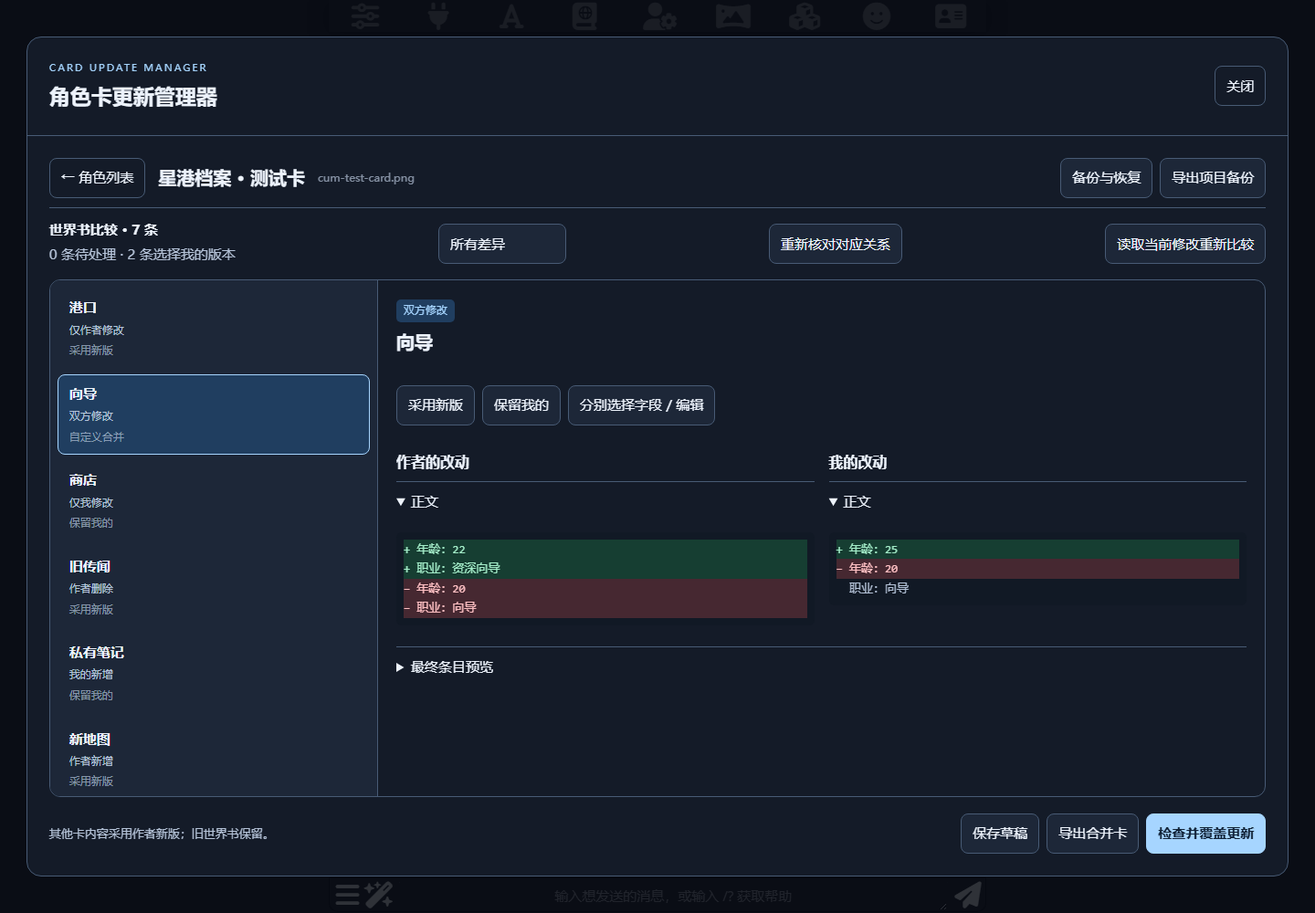
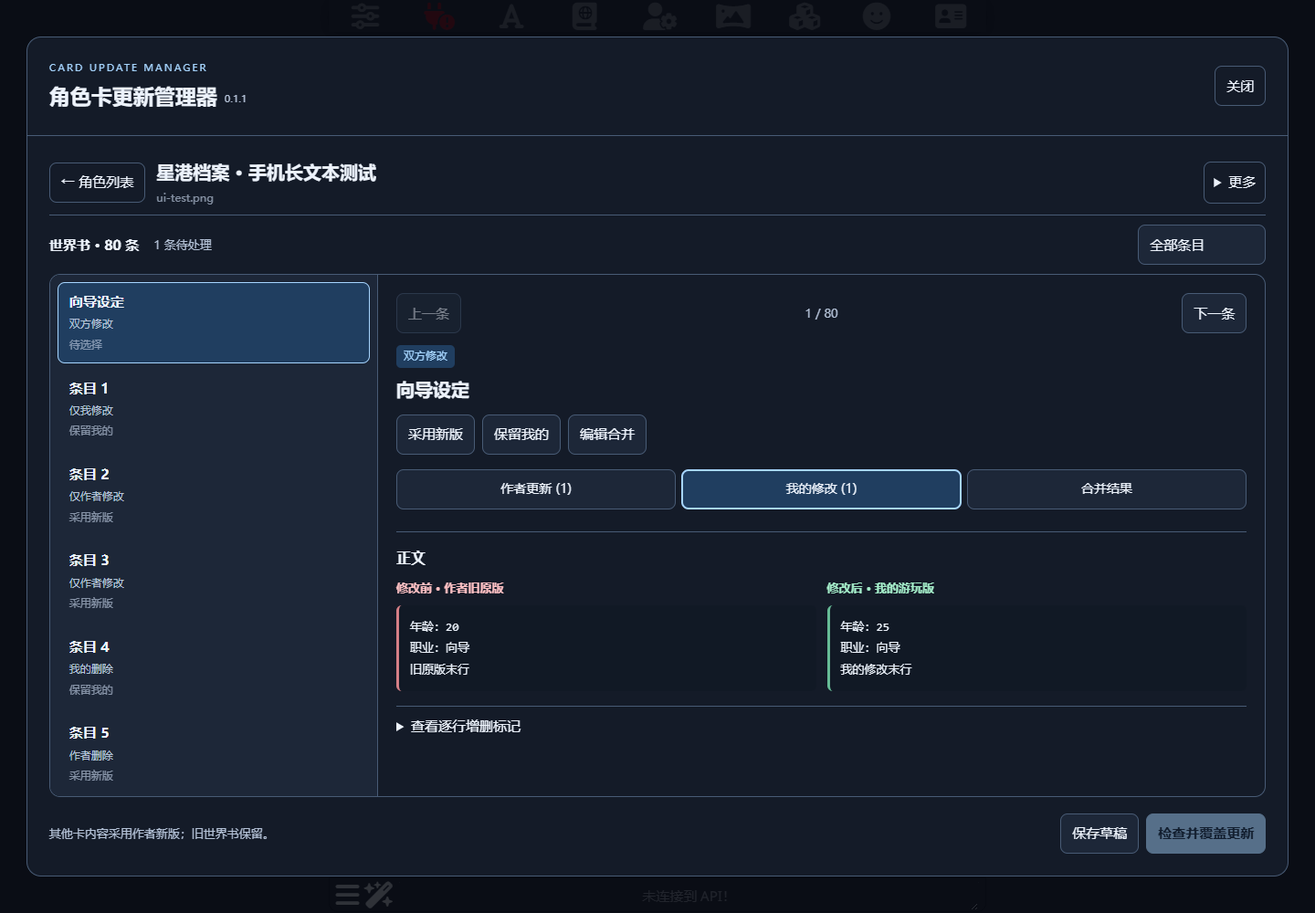
Fix mobile navigation and make worldbook changes directly readable

diff --git a/ui.js b/ui.js
@@ -48,7 +48,7 @@ export class Manager {
         this.message=el('div',{class:'cum-message',role:'status','aria-live':'polite'});
         this.content=el('main',{class:'cum-content'});
         this.shell=el('div',{class:'cum-shell'},
-            el('header',{class:'cum-header'},el('div',{},el('span',{class:'cum-eyebrow'},'CARD UPDATE MANAGER'),el('h2',{id:'cum-title'},'角色卡更新管理器')),
+            el('header',{class:'cum-header'},el('div',{},el('span',{class:'cum-eyebrow'},'CARD UPDATE MANAGER'),el('h2',{id:'cum-title'},'角色卡更新管理器',el('span',{class:'cum-version'},'0.1.1'))),
                 button('关闭',()=>{if(!this.busy)this.dialog.close();},{class:'cum-quiet'})),this.message,this.content);
         this.dialog.append(this.shell);document.body.append(this.dialog);this.dialog.showModal();
         await this.run(()=>this.home());
@@ -95,7 +95,11 @@ export class Manager {
         this.state={card,record,snapshot:null,next:null,rows:null,filter:'changed',selected:0};
         this.renderSetup();
     }
-    nav(){return el('div',{class:'cum-heading'},el('div',{},button('← 角色列表',()=>this.run(()=>this.home()),{class:'cum-quiet'}),el('h3',{},this.state.card.name),el('small',{},this.state.card.avatar)),el('div',{class:'cum-actions'},button('备份与恢复',()=>this.run(()=>this.backupPage())),button('导出项目备份',()=>this.run(()=>this.exportProject()))));}
+    nav(){
+        const actions=el('div',{class:'cum-more-actions'},button('备份与恢复',()=>this.run(()=>this.backupPage())),button('导出项目备份',()=>this.run(()=>this.exportProject())));
+        if(this.state.rows)actions.append(button('导出合并卡',()=>this.run(()=>this.exportMerged()),{disabled:this.state.rows.some(r=>!r.choice)}),button('重新核对对应关系',()=>this.renderMapping()),button('读取当前修改重新比较',()=>this.run(async()=>{if(!await this.confirm('重新读取会清除当前条目选择，是否继续？','重新比较'))return;this.state.snapshot=await this.host.snapshot(this.state.card.avatar);this.prepareMaps();this.renderMapping();})));
+        return el('div',{class:'cum-heading cum-nav'},el('div',{class:'cum-nav-title'},button('← 角色列表',()=>this.run(()=>this.home()),{class:'cum-quiet'}),el('div',{class:'cum-character-name'},el('h3',{},this.state.card.name),el('small',{},this.state.card.avatar))),el('details',{class:'cum-more'},el('summary',{},'更多'),actions));
+    }
     renderSetup(){
         this.content.classList.remove('cum-merge-page');
         const s=this.state;
@@ -139,13 +143,13 @@ export class Manager {
                 if(initial>=0)select.append(el('option',{value:String(initial)},`${title(target[initial])} · #${target[initial].uid}`));
                 // Populate on focus, avoiding O(n²) option nodes for large worldbooks.
                 select.addEventListener('focus',()=>{const value=select.value;select.replaceChildren(el('option',{value:'-1'},'不存在 / 已删除'));target.forEach((e,index)=>select.append(el('option',{value:String(index)},`${title(e)} · #${e.uid}`)));select.value=value;},{once:true});
-                select.value=String(s.maps[side][i]);select.addEventListener('change',()=>s.maps[side][i]=Number(select.value));return select;
+                select.value=String(s.maps[side][i]);select.addEventListener('change',()=>s.maps[side][i]=Number(select.value));return el('label',{class:'cum-map-label'},el('span',{},side==='mine'?'对应我的条目':'对应作者新版条目'),select);
             });
             table.append(el('div',{class:'cum-map-row'},el('span',{},title(base)),...selectors));
         });
         const check=el('input',{type:'checkbox'});
         const go=button('确认对应关系，查看差异',()=>this.run(async()=>{
-            s.rows=buildRows(s.base,s.mine,s.nextEntries,s.maps);s.selected=0;s.filter='changed';await this.saveDraft();this.renderMerge();
+            s.rows=buildRows(s.base,s.mine,s.nextEntries,s.maps);s.selected=0;s.filter='changed';s.mobilePane='list';s.detailSource=null;await this.saveDraft();this.renderMerge();
         }),{class:'cum-primary',disabled:true});
         check.addEventListener('change',()=>go.disabled=!check.checked);
         this.content.replaceChildren(this.nav(),el('h3',{},'核对条目对应关系'),el('p',{},`按唯一名称、正文和关键词预匹配。旧条目在当前版未匹配 ${unmatchedM} 条，在新版未匹配 ${unmatchedN} 条。改名或重建的条目请手动对应；确认不存在的保留“已删除”。未被对应的新条目将作为新增处理。`),table,
@@ -158,7 +162,7 @@ export class Manager {
     }
     async resumeDraft(){
         const s=this.state,d=s.record.draft;
-        Object.assign(s,{snapshot:d.snapshot,next:d.next});this.prepareMaps();s.maps=d.maps;s.rows=d.rows;s.filter='changed';s.selected=0;
+        Object.assign(s,{snapshot:d.snapshot,next:d.next});this.prepareMaps();s.maps=d.maps;s.rows=d.rows;s.filter='changed';s.selected=0;s.mobilePane='list';s.detailSource=null;
         this.renderMerge();this.say('草稿已恢复。应用前会检查当前卡和世界书是否发生变化。');
     }
     renderMerge(){
@@ -166,45 +170,69 @@ export class Manager {
         const s=this.state, pending=s.rows.filter(r=>!r.choice).length;
         const filter=el('select',{'aria-label':'筛选条目'},el('option',{value:'changed'},'所有差异'),el('option',{value:'pending'},`待处理（${pending}）`),el('option',{value:'all'},'全部条目'));
         for(const [key,label]of Object.entries(LABELS)){const count=s.rows.filter(r=>r.type===key).length;if(count)filter.append(el('option',{value:key},`${label}（${count}）`));}
-        filter.value=s.filter;filter.addEventListener('change',()=>{s.filter=filter.value;this.renderMerge();});
-        this.list=el('aside',{class:'cum-entry-list','aria-label':'世界书条目'});this.detail=el('section',{class:'cum-detail','aria-label':'条目差异详情'});
-        this.content.replaceChildren(this.nav(),el('div',{class:'cum-toolbar'},el('div',{},el('strong',{},`世界书比较 · ${s.rows.length} 条`),el('p',{},`${pending} 条待处理 · ${s.rows.filter(r=>r.choice==='mine').length} 条选择我的版本`)),filter,
-            button('重新核对对应关系',()=>this.renderMapping()),button('读取当前修改重新比较',()=>this.run(async()=>{if(!await this.confirm('重新读取会清除当前条目选择，是否继续？','重新比较'))return;s.snapshot=await this.host.snapshot(s.card.avatar);this.prepareMaps();this.renderMapping();}))),
+        filter.value=s.filter;filter.addEventListener('change',()=>{s.filter=filter.value;s.detailSource=null;this.renderMerge();});
+        this.list=el('aside',{class:'cum-entry-list','aria-label':'世界书条目'});this.detail=el('section',{class:'cum-detail','aria-label':'条目差异详情',tabindex:'-1'});
+        this.mobileTabs=el('div',{class:'cum-mobile-tabs','aria-label':'比较面板'},button('条目列表',()=>this.setMobilePane('list'),{'data-pane':'list'}),button('差异详情',()=>this.setMobilePane('detail'),{'data-pane':'detail'}));
+        this.content.replaceChildren(this.nav(),this.mobileTabs,el('div',{class:'cum-toolbar'},el('div',{class:'cum-merge-summary'},el('strong',{},`世界书 · ${s.rows.length} 条`),el('span',{},`${pending} 条待处理`)),filter),
             el('div',{class:'cum-workspace'},this.list,this.detail),
-            el('footer',{class:'cum-footer'},el('span',{},'其他卡内容采用作者新版；旧世界书保留。'),el('div',{class:'cum-actions'},button('保存草稿',()=>this.run(async()=>{await this.saveDraft();this.say('草稿已保存。');})),button('导出合并卡',()=>this.run(()=>this.exportMerged()),{disabled:!!pending}),button('检查并覆盖更新',()=>this.run(()=>this.apply()),{class:'cum-primary',disabled:!!pending}))));
-        this.drawList();
+            el('footer',{class:'cum-footer'},el('span',{},'其他卡内容采用作者新版；旧世界书保留。'),el('div',{class:'cum-actions'},button('保存草稿',()=>this.run(async()=>{await this.saveDraft();this.say('草稿已保存。');})),button('检查并覆盖更新',()=>this.run(()=>this.apply()),{class:'cum-primary',disabled:!!pending}))));
+        this.drawList();this.setMobilePane(s.mobilePane??'list');
+    }
+    setMobilePane(pane){
+        this.state.mobilePane=pane;this.content.dataset.mobilePane=pane;
+        for(const b of this.mobileTabs?.querySelectorAll('button')??[])b.setAttribute('aria-pressed',String(b.dataset.pane===pane));
+    }
+    selectEntry(index){
+        this.state.selected=index;this.state.detailSource=null;this.drawList();this.setMobilePane('detail');this.detail.scrollTop=0;
+        if(matchMedia('(max-width: 760px), (max-height: 500px) and (max-width: 1000px)').matches)this.detail.focus({preventScroll:true});
     }
     drawList(){
         const s=this.state;this.list.replaceChildren();
         const visible=s.rows.map((r,i)=>({r,i})).filter(({r})=>s.filter==='all'||s.filter==='changed'&&!['unchanged','bothDeleted'].includes(r.type)||s.filter==='pending'&&!r.choice||r.type===s.filter);
         if(!visible.some(({i})=>i===s.selected))s.selected=visible[0]?.i??-1;
-        for(const {r,i}of visible){const b=button('',()=>{s.selected=i;this.drawList();},{class:'cum-entry'+(s.selected===i?' is-selected':''),'aria-pressed':String(s.selected===i)});b.append(el('strong',{},r.title),el('span',{},LABELS[r.type]),el('small',{},!r.choice?'待选择':r.choice==='mine'?'保留我的':r.choice==='next'?'采用新版':r.choice==='delete'?'删除':'自定义合并'));this.list.append(b);}
+        this.visibleRows=visible.map(x=>x.i);
+        for(const {r,i}of visible){const b=button('',()=>this.selectEntry(i),{class:'cum-entry'+(s.selected===i?' is-selected':''),'aria-pressed':String(s.selected===i)});b.append(el('strong',{},r.title),el('span',{},LABELS[r.type]),el('small',{},!r.choice?'待选择':r.choice==='mine'?'保留我的':r.choice==='next'?'采用新版':r.choice==='delete'?'删除':'自定义合并'));this.list.append(b);}
         if(!visible.length)this.list.append(el('p',{class:'cum-empty'},'此分类没有条目。'));
         this.drawDetail();
     }
     diffPanel(label,base,value){
-        const panel=el('section',{class:'cum-diff-panel'},el('h4',{},label));
-        if(!value){panel.append(el('p',{},'该版本中不存在此条目。'));return panel;}
+        const panel=el('section',{class:'cum-diff-panel','aria-label':label});
+        if(!value){panel.append(el('p',{},base?'此版本删除了该条目。下面是删除前的正文。':'此版本中没有该条目。'));if(base)panel.append(el('div',{class:'cum-before'},el('strong',{},'删除前 · 旧原版正文'),el('pre',{},pretty(base.content))));return panel;}
         const fields=changedFields(base,value);
-        if(!fields.length)panel.append(el('p',{},'相对于作者旧原版没有变化。'));
+        if(!fields.length)panel.append(el('p',{},'相对于作者旧原版没有变化。'),el('strong',{},'正文'),el('pre',{},value.content??'（空正文）'));
         for(const field of fields){
-            const details=el('details',{...(field==='content'?{open:''}:{})},el('summary',{},FIELD_NAMES[field]??field));
-            const diff=el('pre',{class:'cum-diff'});
-            for(const line of lineDiff(base?.[field]===undefined?'':pretty(base[field]),pretty(value[field])))diff.append(el('span',{class:'cum-line '+line.kind},(line.kind==='add'?'+ ':line.kind==='remove'?'− ':'  ')+line.text+'\n'));
-            details.append(diff);panel.append(details);
+            const before=base?.[field],after=value[field];
+            const display=v=>field==='disable'?(v===undefined?'（不存在）':v?'禁用':'启用'):pretty(v);
+            const section=el('section',{class:'cum-field-change','data-field':field},el('h4',{},FIELD_NAMES[field]??field),
+                el('div',{class:'cum-before-after'},el('div',{class:'cum-before'},el('strong',{},'修改前 · 作者旧原版'),el('pre',{},display(before))),el('div',{class:'cum-after'},el('strong',{},'修改后 · '+(label==='作者更新'?'作者新版':'我的游玩版')),el('pre',{},display(after)))));
+            if(field==='content'){
+                const details=el('details',{class:'cum-inline-diff'},el('summary',{},'查看逐行增删标记'));
+                const diff=el('pre',{class:'cum-diff'});
+                for(const line of lineDiff(before??'',after??''))diff.append(el('span',{class:'cum-line '+line.kind},(line.kind==='add'?'+ ':line.kind==='remove'?'− ':'  ')+line.text+'\n'));
+                details.append(diff);section.append(details);
+            }
+            panel.append(section);
         }return panel;
     }
     drawDetail(){
-        const s=this.state,r=s.rows[s.selected];this.detail.replaceChildren();if(!r)return;
-        const choose=choice=>this.run(async()=>{r.choice=choice;await this.saveDraft();this.renderMerge();});
-        this.detail.append(el('div',{class:'cum-heading'},el('div',{},el('span',{class:'cum-badge'},LABELS[r.type]),el('h3',{},r.title))),
-            el('div',{class:'cum-actions'},button(r.next?'采用新版':'接受新版删除',()=>choose('next'),{'aria-pressed':String(r.choice==='next')}),button(r.mine?'保留我的':'保留我的删除',()=>choose('mine'),{'aria-pressed':String(r.choice==='mine')}),r.mine&&r.next?button('分别选择字段 / 编辑',()=>this.editFields(r)):null),
-            el('div',{class:'cum-diff-grid'},this.diffPanel('作者的改动',r.base,r.next),this.diffPanel('我的改动',r.base,r.mine)));
-        const preview=el('details',{},el('summary',{},'最终条目预览'));
-        preview.append(el('pre',{},r.choice?pretty(selectedEntry(r)):'尚未选择'));this.detail.append(preview);
+        const s=this.state,r=s.rows[s.selected];this.detail.replaceChildren();if(!r){this.detail.append(el('p',{class:'cum-empty'},'当前筛选下没有条目。请返回条目列表更换筛选。'));return;}
+        const choose=choice=>this.run(async()=>{r.choice=choice;s.detailSource='result';await this.saveDraft();this.renderMerge();});
+        const at=this.visibleRows.indexOf(s.selected);
+        this.detail.append(el('div',{class:'cum-entry-nav'},button('上一条',()=>this.selectEntry(this.visibleRows[at-1]),{disabled:at<=0}),el('span',{},`${at+1} / ${this.visibleRows.length}`),button('下一条',()=>this.selectEntry(this.visibleRows[at+1]),{disabled:at>=this.visibleRows.length-1})),el('div',{class:'cum-detail-heading'},el('span',{class:'cum-badge'},LABELS[r.type]),el('h3',{},r.title)),
+            el('div',{class:'cum-actions'},button(r.next?'采用新版':'接受新版删除',()=>choose('next'),{'aria-pressed':String(r.choice==='next')}),button(r.mine?'保留我的':'保留我的删除',()=>choose('mine'),{'aria-pressed':String(r.choice==='mine')}),r.mine&&r.next?button('编辑合并',()=>this.editFields(r),{'aria-label':'分别选择字段 / 编辑'}):null),
+        );
+        const n=changedFields(r.base,r.next).length,m=changedFields(r.base,r.mine).length;
+        s.detailSource??=n?'next':m?'mine':'next';
+        const tabs=el('div',{class:'cum-source-tabs','aria-label':'差异来源'},...[[`作者更新 (${n})`,'next'],[`我的修改 (${m})`,'mine'],['合并结果','result']].map(([text,key])=>button(text,()=>{s.detailSource=key;this.drawDetail();this.detail.scrollTop=0;},{'aria-pressed':String(s.detailSource===key)})));
+        this.detail.append(tabs);
+        if(s.detailSource==='result'){
+            const entry=r.choice?selectedEntry(r):undefined;
+            this.detail.append(el('h4',{},'合并后的正文'),el('p',{},r.choice?(entry?'此内容将写入更新后的世界书。':'当前选择：删除此条目。'):'尚未选择，请先选择一个版本。'));
+            if(entry)this.detail.append(el('pre',{class:'cum-result-content'},entry.content??''),el('details',{},el('summary',{},'查看完整条目配置'),el('pre',{},pretty(entry))));
+        }else this.detail.append(this.diffPanel(s.detailSource==='next'?'作者更新':'我的修改',r.base,r[s.detailSource]));
     }
     editFields(row){
-        const custom=fieldMerge(row),fields=[...new Set([...Object.keys(cleanEntry(row.mine)),...Object.keys(cleanEntry(row.next))])];
+        const custom=row.choice==='custom'?copy(row.custom):fieldMerge(row),fields=[...new Set([...Object.keys(cleanEntry(row.mine)),...Object.keys(cleanEntry(row.next))])];
         const form=el('div',{class:'cum-field-form'},el('h3',{},'分别选择字段'),el('p',{},'正文可直接编辑。其他字段可选择来源；双方修改的字段默认显示新版，请逐项检查。'));
         for(const field of fields){
             if(equal(row.mine[field],row.next[field])&&field!=='content')continue;
@@ -216,7 +244,7 @@ export class Manager {
             if(field==='content')current.addEventListener('input',()=>custom.content=current.value);
             form.append(el('label',{},FIELD_NAMES[field]??field,select),current);
         }
-        form.append(el('div',{class:'cum-actions'},button('取消',()=>this.drawDetail()),button('保存此条合并',()=>this.run(async()=>{row.custom=custom;row.choice='custom';await this.saveDraft();this.renderMerge();}),{class:'cum-primary'})));
+        form.append(el('div',{class:'cum-actions'},button('取消',()=>this.drawDetail()),button('保存此条合并',()=>this.run(async()=>{row.custom=custom;row.choice='custom';this.state.detailSource='result';await this.saveDraft();this.renderMerge();}),{class:'cum-primary'})));
         this.detail.replaceChildren(form);
     }
     async prepareResult(){

diff --git a/style.css b/style.css
@@ -12,6 +12,100 @@
 .cum-heading,.cum-toolbar,.cum-footer{display:flex;justify-content:space-between;gap:16px;align-items:center;flex-wrap:wrap}.cum-heading{margin-bottom:20px}.cum-actions{display:flex;align-items:center;gap:8px;flex-wrap:wrap}.cum-toolbar{padding:16px 0;border-top:1px solid var(--cum-border)}.cum-toolbar p{margin:4px 0}.cum-footer{padding:18px 0 0}.cum-footer>span{font-size:13px;color:var(--cum-muted)}
 .cum-card-grid{display:grid;grid-template-columns:repeat(auto-fill,minmax(270px,1fr));gap:16px}.cum-dialog button.cum-card{display:flex;gap:16px;padding:18px;text-align:left;min-height:150px;background:var(--cum-panel)}.cum-card img{width:68px;height:96px;object-fit:cover;border-radius:8px;flex-shrink:0}.cum-card-info{display:flex;flex-direction:column;align-items:flex-start;gap:6px;min-width:0}.cum-card strong{font-size:17px}.cum-card small{word-break:break-all}.cum-dialog small{font-size:12px;color:var(--cum-muted)}.cum-badge{display:inline-block;font-size:12px;padding:3px 8px;background:var(--cum-button);color:var(--cum-accent);border-radius:5px}
 .cum-steps{display:grid;grid-template-columns:repeat(3,1fr);gap:16px;margin:24px 0}.cum-step{background:var(--cum-panel);border:1px solid var(--cum-border);border-radius:12px;padding:20px}.cum-step-number{color:var(--cum-accent);font-size:24px;font-weight:600}.cum-note{font-size:13px;margin-top:24px!important}.cum-empty{padding:32px;text-align:center}.cum-workspace{display:grid;grid-template-columns:minmax(200px,27%) minmax(0,1fr);border:1px solid var(--cum-border);border-radius:12px;overflow:hidden;min-height:420px}.cum-entry-list{max-height:60dvh;overflow:auto;background:var(--cum-panel);border-right:1px solid var(--cum-border);padding:8px}.cum-dialog button.cum-entry{display:flex;flex-direction:column;align-items:flex-start;width:100%;gap:4px;margin:0 0 6px;text-align:left;background:transparent;border:1px solid transparent;border-radius:8px}.cum-entry span{font-size:12px;color:var(--cum-muted)}.cum-dialog button.cum-entry.is-selected{background:var(--cum-button);border-color:var(--cum-accent)}.cum-detail{padding:20px;max-height:60dvh;overflow:auto;min-width:0}.cum-diff-grid{display:grid;grid-template-columns:1fr 1fr;gap:16px;margin-top:20px}.cum-diff-panel{min-width:0}.cum-dialog details{border-top:1px solid var(--cum-border);padding:10px 0}.cum-dialog summary{cursor:pointer;min-height:32px;overflow-wrap:anywhere}.cum-dialog pre{white-space:pre-wrap;overflow-wrap:anywhere;font:13px/1.65 ui-monospace,Consolas,monospace;color:var(--cum-text);background:#111925;padding:12px;border-radius:6px;max-height:420px;overflow:auto}.cum-line{display:block;white-space:pre-wrap}.cum-line.add{background:#163e32;color:#a4edc9}.cum-line.remove{background:#462831;color:#ffc1c4}.cum-line.same{color:var(--cum-muted)}.cum-dialog .cum-diff{padding:8px}.cum-field-form label{display:flex;justify-content:space-between;align-items:center;gap:12px;margin:12px 0}.cum-field-form textarea{width:100%;resize:vertical}.cum-confirm{width:min(520px,92vw);padding:24px;max-height:90dvh}.cum-confirm p{white-space:pre-wrap}.cum-confirm .cum-actions{justify-content:flex-end;margin-top:20px}.cum-mapping{max-height:48dvh;overflow:auto;border:1px solid var(--cum-border);border-radius:8px}.cum-map-row{display:grid;grid-template-columns:1fr 1fr 1fr;gap:12px;padding:10px;border-bottom:1px solid var(--cum-border);align-items:center}.cum-map-row>*{min-width:0;overflow-wrap:anywhere}.cum-map-head{background:var(--cum-panel);position:sticky;top:0}.cum-check{display:flex;gap:10px;align-items:center;margin:16px 0}.cum-dialog .cum-check input{min-height:24px;width:24px;flex-shrink:0}.cum-backups{display:grid;gap:16px}.cum-backups button{margin-right:8px}
-.cum-merge-page{display:flex;flex-direction:column;overflow:hidden}.cum-merge-page>.cum-heading{margin-bottom:10px}.cum-merge-page>.cum-heading>div:first-child{display:flex;align-items:center;gap:14px;flex-wrap:wrap}.cum-merge-page>.cum-heading h3{margin:0}.cum-merge-page .cum-toolbar{padding:12px 0}.cum-merge-page .cum-workspace{flex:1;min-height:140px}.cum-merge-page .cum-detail,.cum-merge-page .cum-entry-list{max-height:none;min-height:0}.cum-merge-page .cum-footer{flex-shrink:0;background:var(--cum-bg)}
-@media(max-width:760px){.cum-dialog{width:98vw;max-width:98vw;height:96dvh;max-height:96dvh;font-size:16px}.cum-header,.cum-content{padding:14px}.cum-steps{grid-template-columns:1fr}.cum-workspace{grid-template-columns:1fr}.cum-entry-list{max-height:220px;border-right:0;border-bottom:1px solid var(--cum-border)}.cum-detail{max-height:none;padding:14px}.cum-diff-grid{grid-template-columns:1fr}.cum-map-row{grid-template-columns:1fr;gap:6px}.cum-map-head{display:none}.cum-footer{position:static}.cum-card-grid{grid-template-columns:1fr}.cum-heading{align-items:flex-start}.cum-dialog h2{font-size:20px}.cum-merge-page{display:block;overflow:auto}.cum-merge-page .cum-entry-list{max-height:200px}.cum-merge-page .cum-footer{position:sticky;bottom:-14px;padding:12px 0;background:var(--cum-bg);border-top:1px solid var(--cum-border)}.cum-merge-page .cum-footer>span{display:none}.cum-merge-page .cum-footer button{font-size:13px;padding:8px}.cum-merge-page .cum-toolbar{gap:8px}}
+.cum-dialog *, .cum-confirm * { box-sizing: border-box; }
+.cum-header, .cum-message { flex-shrink: 0; }
+.cum-version { font-size: 11px; color: var(--cum-muted); font-weight: 400; margin-left: 8px; vertical-align: middle; }
+.cum-message { max-height: 20dvh; overflow-y: auto; }
+.cum-content { min-width: 0; }
+.cum-dialog .cum-nav { gap: 8px; flex-wrap: nowrap; position: relative; z-index: 4; }
+.cum-nav-title { display: flex; align-items: center; gap: 12px; min-width: 0; }
+.cum-nav-title > button { flex-shrink: 0; }
+.cum-character-name { min-width: 0; }
+.cum-character-name h3 { overflow: hidden; text-overflow: ellipsis; white-space: nowrap; margin: 0; }
+.cum-character-name small { overflow-wrap: anywhere; }
+.cum-dialog .cum-more { border: 0; padding: 0; flex-shrink: 0; }
+.cum-more > summary { min-height: 44px; padding: 10px; border: 1px solid var(--cum-border); border-radius: 8px; }
+.cum-more-actions { position: absolute; right: 0; top: 100%; z-index: 6; display: grid; gap: 8px; width: min(280px, 85vw); max-height: 60dvh; overflow-y: auto; background: var(--cum-panel); padding: 12px; border: 1px solid var(--cum-border); border-radius: 8px; box-shadow: 0 12px 28px #0008; }
+.cum-merge-page { display: flex; flex-direction: column; overflow: hidden; }
+.cum-merge-page > .cum-heading { margin-bottom: 8px; flex-shrink: 0; }
+.cum-merge-page .cum-toolbar { padding: 10px 0; flex-shrink: 0; }
+.cum-merge-summary { display: flex; gap: 16px; align-items: center; }
+.cum-merge-summary span { color: var(--cum-muted); font-size: 13px; }
+.cum-merge-page .cum-workspace { flex: 1; min-height: 0; grid-template-rows: minmax(0, 1fr); }
+.cum-merge-page .cum-detail, .cum-merge-page .cum-entry-list { max-height: none; min-height: 0; overscroll-behavior: contain; }
+.cum-merge-page .cum-footer { flex-shrink: 0; background: var(--cum-bg); }
+.cum-mobile-tabs { display: none; }
+.cum-entry-nav { display: flex; align-items: center; justify-content: space-between; gap: 12px; margin-bottom: 12px; }
+.cum-entry-nav span { font-size: 13px; color: var(--cum-muted); }
+.cum-detail-heading h3 { overflow-wrap: anywhere; margin: 8px 0 12px; }
+.cum-source-tabs { display: grid; grid-template-columns: repeat(3, minmax(0, 1fr)); gap: 6px; padding: 16px 0 8px; }
+.cum-source-tabs button { padding: 8px; font-size: 14px; }
+.cum-dialog .cum-field-change { margin: 16px 0; padding-top: 8px; border-top: 1px solid var(--cum-border); }
+.cum-before-after { display: grid; grid-template-columns: minmax(0, 1fr) minmax(0, 1fr); gap: 12px; }
+.cum-before, .cum-after { min-width: 0; }
+.cum-before > strong, .cum-after > strong { font-size: 13px; }
+.cum-before > strong { color: #ffc1c4; }
+.cum-after > strong { color: #a4edc9; }
+.cum-dialog .cum-detail pre { max-height: none; overflow: visible; white-space: pre-wrap; overflow-wrap: anywhere; word-break: break-word; line-height: 1.8; margin: 8px 0; }
+.cum-dialog .cum-before pre { border-left: 3px solid #d78087; }
+.cum-dialog .cum-after pre { border-left: 3px solid #67bd97; }
+.cum-inline-diff { margin-top: 8px; }
+.cum-map-label { display: block; min-width: 0; }
+.cum-map-label > span { display: none; }
+.cum-map-label select { width: 100%; }
+
+@media (max-width: 760px), (max-height: 500px) and (max-width: 1000px) {
+    .cum-dialog { inset: 0; margin: 0; width: 100%; max-width: 100%; height: 100vh; height: 100dvh; max-height: 100dvh; border: 0; border-radius: 0; font-size: 16px; }
+    .cum-shell { padding-top: env(safe-area-inset-top); padding-bottom: env(safe-area-inset-bottom); }
+    .cum-header { padding: 8px 12px; gap: 8px; }
+    .cum-eyebrow { display: none; }
+    .cum-dialog h2 { font-size: 18px; margin: 0; }
+    .cum-content { padding: 12px; }
+    .cum-message:not(:empty) { padding: 8px 12px; font-size: 13px; }
+    .cum-heading { align-items: center; }
+    .cum-nav-title { gap: 8px; }
+    .cum-nav-title > button { font-size: 13px; padding: 8px; }
+    .cum-character-name h3 { font-size: 16px; }
+    .cum-character-name small { display: none; }
+    .cum-more > summary { font-size: 13px; }
+    .cum-steps { grid-template-columns: 1fr; margin: 16px 0; }
+    .cum-card-grid { grid-template-columns: 1fr; }
+    .cum-card strong { overflow-wrap: anywhere; }
+    .cum-map-row { grid-template-columns: 1fr; gap: 8px; padding: 12px; }
+    .cum-map-head { display: none; }
+    .cum-map-label > span { display: block; color: var(--cum-muted); font-size: 13px; padding-bottom: 4px; }
+    .cum-mapping { max-height: none; overflow: visible; }
+    .cum-check { align-items: flex-start; }
+    .cum-merge-page { display: flex; overflow: hidden; padding: 8px 12px 0; }
+    .cum-mobile-tabs { display: grid; grid-template-columns: 1fr 1fr; gap: 8px; flex-shrink: 0; margin-bottom: 8px; }
+    .cum-mobile-tabs button { font-size: 14px; }
+    .cum-merge-page .cum-toolbar { display: grid; grid-template-columns: 1fr minmax(120px, 48%); gap: 8px; }
+    .cum-merge-summary { flex-direction: column; align-items: flex-start; gap: 0; }
+    .cum-merge-summary strong { font-size: 14px; }
+    .cum-toolbar select { font-size: 14px; width: 100%; }
+    .cum-merge-page .cum-workspace { display: block; overflow: hidden; border-radius: 8px; }
+    .cum-merge-page .cum-entry-list, .cum-merge-page .cum-detail { height: 100%; max-height: none; overflow-y: auto; overflow-x: hidden; -webkit-overflow-scrolling: touch; }
+    .cum-merge-page .cum-entry-list { border: 0; }
+    .cum-merge-page .cum-detail { padding: 12px; }
+    .cum-merge-page[data-mobile-pane="list"] .cum-detail { display: none; }
+    .cum-merge-page[data-mobile-pane="detail"] .cum-entry-list,
+    .cum-merge-page[data-mobile-pane="detail"] > .cum-toolbar { display: none; }
+    .cum-before-after { grid-template-columns: 1fr; gap: 8px; }
+    .cum-before-after > .cum-after { order: -1; }
+    .cum-detail-heading { display: flex; align-items: center; flex-wrap: wrap; gap: 8px; margin: 6px 0 10px; }
+    .cum-detail-heading h3 { font-size: 18px; margin: 0; }
+    .cum-entry-nav { margin-bottom: 8px; }
+    .cum-entry-nav button { padding: 8px; font-size: 13px; }
+    .cum-detail > .cum-actions { gap: 6px; }
+    .cum-detail > .cum-actions button { flex: 1; padding: 8px 6px; font-size: 13px; }
+    .cum-source-tabs { padding-top: 12px; position: sticky; top: -12px; z-index: 2; background: var(--cum-bg); }
+    .cum-source-tabs button { font-size: 12px; padding: 8px 3px; white-space: nowrap; }
+    .cum-dialog .cum-detail pre { font-size: 15px; padding: 10px; }
+    .cum-merge-page .cum-footer { position: static; margin: 0; padding: 8px 0; border-top: 0; }
+    .cum-merge-page .cum-footer > span { display: none; }
+    .cum-merge-page .cum-footer > .cum-actions { width: 100%; display: grid; grid-template-columns: 1fr 2fr; gap: 8px; }
+    .cum-merge-page .cum-footer button { font-size: 14px; padding: 8px; }
+    .cum-field-form label { align-items: flex-start; }
+    .cum-field-form textarea { font-size: 16px; }
+}
 @media(prefers-reduced-motion:reduce){.cum-dialog *,.cum-confirm *{transition:none!important}}

diff --git a/README.md b/README.md
@@ -2,9 +2,11 @@
 
 在 SillyTavern 中先比较作者新版与个人修改，选择保留内容，再覆盖更新角色卡。
 
-**0.1.0 首版预览**。独立前端扩展，不依赖酒馆助手，不需要额外模型 API 或服务器插件。
+**0.1.1 首版预览**。独立前端扩展，不依赖酒馆助手，不需要额外模型 API 或服务器插件。
 
 ![使用虚构测试卡展示的差异面板](docs/preview.png)
+
+[手机端差异详情预览](docs/mobile.png)
 
 ## 安装与更新
 
@@ -16,6 +18,8 @@ https://github.com/adelia1017/sillytavern-card-update-manager
 
 安装后刷新页面，从「扩展设置 → 角色卡更新管理器」打开，也可从聊天区的扩展菜单进入。
 后续通过酒馆扩展管理中的更新按钮获取更新，再刷新页面。不需要 npm install 或编译。
+
+手机端点击条目后进入独立详情页，通过「作者更新 / 我的修改 / 合并结果」切换内容。修改前后的正文和配置直接展示；低频操作在「更多」菜单。更新后刷新酒馆，面板标题旁应显示 `0.1.1`；若仍是旧界面，请关闭酒馆页面后重新打开。
 
 如需手动安装，把包含 `manifest.json` 的整个文件夹放入酒馆的 `data/<账号>/extensions/card-update-manager/`，然后刷新。手动复制安装不会自动成为可 Git 更新的安装，日常使用建议通过仓库链接安装。
 
@@ -39,7 +43,7 @@ https://github.com/adelia1017/sillytavern-card-update-manager
 | 双方修改且结果不同、修改与删除冲突 | 必须选择 |
 | 双方结果相同 | 采用共同结果 |
 
-正文以增删行显示，关键词、启用状态、顺序、触发设置等以字段显示。整条选择会采用该侧整条内容；需要同时保留不同字段时使用「分别选择字段 / 编辑」。
+正文和配置直接显示修改前后的值，正文还可展开逐行增删标记。整条选择会采用该侧整条内容；需要同时保留不同字段时使用「编辑合并」。
 
 ## 数据与恢复
 
@@ -77,6 +81,8 @@ npm test
 `tests/browser.mjs` 是开发环境集成测试，需自行准备隔离酒馆、Playwright 和 Chrome，并设置 `TEST_URL`、`PLAYWRIGHT_MODULE`、`CHROME_PATH`。不要把它指向日常使用的数据实例。运行产物位于被 Git 忽略的 `test-results/`，不随扩展发布。
 
 其他酒馆版本尚未实测。接口适配集中在 `host.js`。
+
+0.1.1 的 `tests/mobile.mjs` 在 320×568、360×640、390×844、430×932、844×390 和 1440×1000 的 Chrome 浏览器视口中检查列表/详情切换、作者与玩家正文、仅配置修改、删除前正文、长文滚动及固定操作区；测试使用虚构内存数据，不写入酒馆角色卡。尚未在真实 iOS Safari 设备上验证。
 
 ## 文件结构
 

diff --git a/CHANGELOG.md b/CHANGELOG.md
@@ -1,5 +1,15 @@
 # Changelog
 
+## 0.1.1 — 2026-11-10
+
+- 手机改为全屏的「条目列表 / 差异详情」切换；点击条目直接打开详情，不再堆叠列表和详情。
+- 顶部精简，低频操作收进「更多」，底部保存和更新按钮保留在可见区域。
+- 增加「作者更新 / 我的修改 / 合并结果」切换，默认选择有改动的一侧。
+- 所有修改字段直接展示修改前后的值；正文、开关和删除前正文不再藏在折叠区域。
+- 长正文使用详情面板统一滚动，支持小屏和横屏，条目映射选择器补上可见标签。
+- 再次编辑自定义合并时保留已编辑的内容。
+- 新增六种屏幕尺寸的真实浏览器回归测试，验证内容可见和交互，而不只检查页面宽度。
+
 ## 0.1.0 — 2026-11-10
 
 首版预览：角色卡列表、原版基线、PNG/JSON 新版导入、世界书三方比较、条目对应关系确认、逐条和逐字段合并、草稿、合并卡导出、备份、覆盖更新及恢复。
